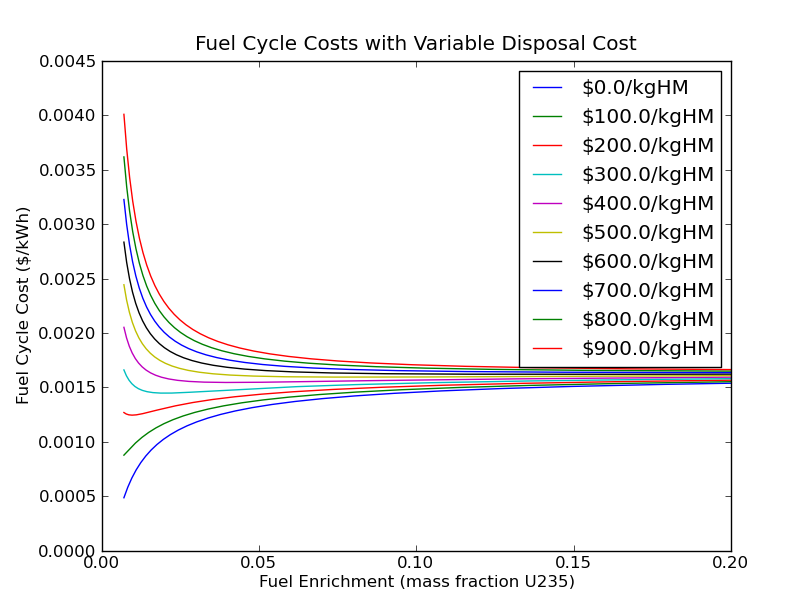
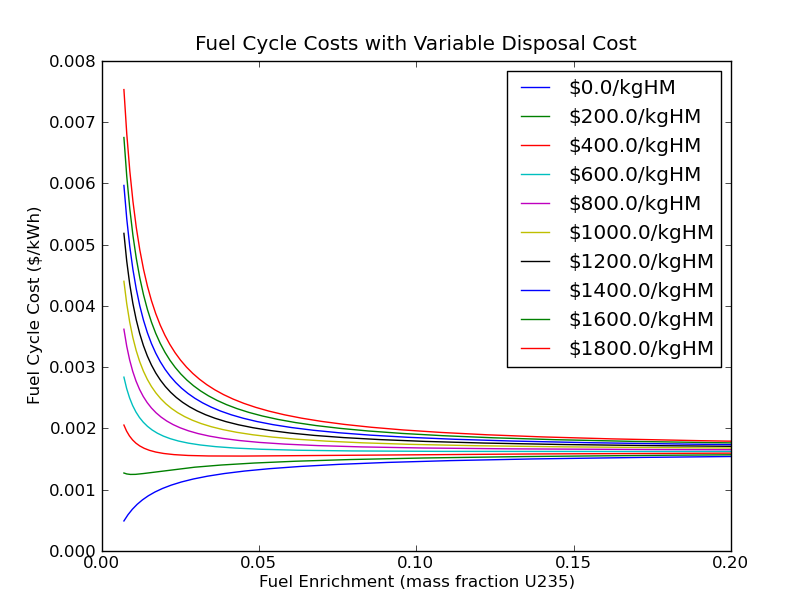
updated disposal cost chart range.

diff --git a/enrich.py b/enrich.py
@@ -106,7 +106,7 @@ def vary_dispose():
   maxenr = .2
   natenr = .0071
   enrichments = linspace(natenr, maxenr, 10000)
-  disp_costs = linspace(0, 1000, 10)
+  disp_costs = linspace(0, 2000, 10)
   for cost in disp_costs:
     valkg = []
     valkwh = []
@@ -242,10 +242,10 @@ def front_back():
   plt.show()
 
 if __name__ == '__main__':
-  #vary_dispose()
-  #vary_mining()
-  #only_enrich()
-  #only_dispose()
-  #front_back()
+  vary_dispose()
+  vary_mining()
+  only_enrich()
+  only_dispose()
+  front_back()
   swuplot()
 
